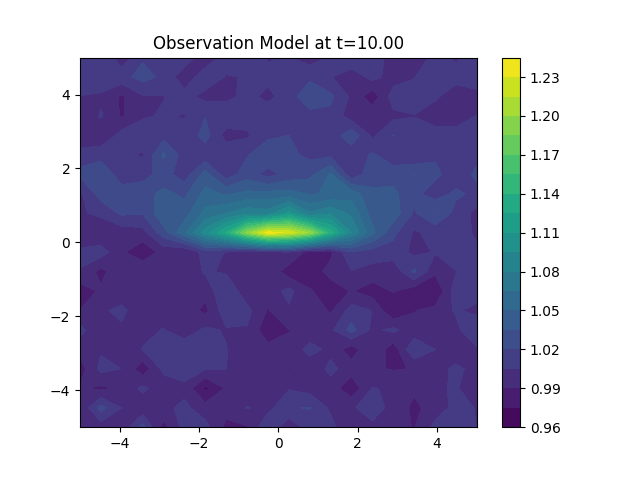
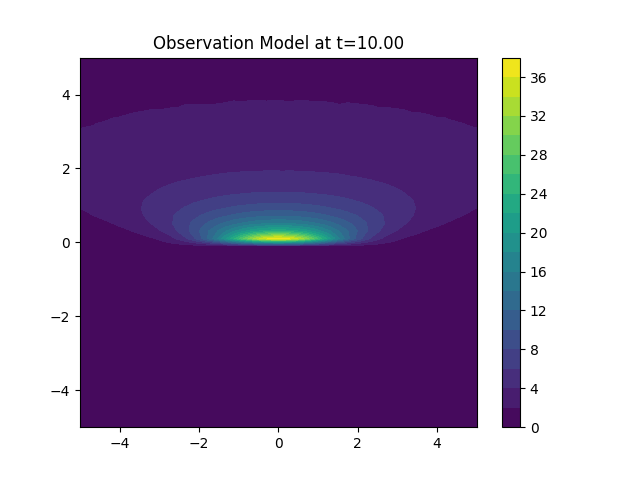
Checked it works for different params

diff --git a/Code/plumes/varying_source.py b/Code/plumes/varying_source.py
@@ -27,7 +27,7 @@ plt.savefig('source_function_plot.png')
 plt.close()
 T=10
 Nt=10
-Nx=20
+Nx=50
 Lx=5
 # Constants
 physical_constants = {
@@ -108,7 +108,7 @@ plt.close()
 #%%
 # Generate data  on grid
 # Generate data  on grid
-data = model.gen_data(10,Nt,20,5,ak,bk,a0)
+data = model.gen_data(10,Nt,Nx,5,ak,bk,a0)
 #Test log_prior
 coefficients = [a0,ak,bk]
 print(log_prior_coefficients(coefficients))
@@ -116,13 +116,13 @@ print(log_prior_coefficients(coefficients))
 # %%
 
 # Test log_likelihood_y
-ll = model.log_likelihood_y(coefficients,T,Nt,20,data)
+ll = model.log_likelihood_y(coefficients,T,Nt,Nx,data)
 print(f"Log likelihood: {ll}")
 
 
 
 def log_posterior(coeff):
-    return log_prior_coefficients(coeff) + model.log_likelihood_y(coeff,T,Nt,20,data)
+    return log_prior_coefficients(coeff) + model.log_likelihood_y(coeff,T,Nt,Nx,data)
     
 #Run rwmh
 initial_point = [0,0,0]

diff --git a/Code/source_varying_functions.py b/Code/source_varying_functions.py
@@ -103,7 +103,7 @@ def A_matrix(x_sensor, y_sensor, constants):
         sigma_V = a_V * (dist_R_valid * np.tan(gamma_V))**b_V + h
         
         rho_ch4 = constants['RHO_CH4']
-        pre_factor = (10 / rho_ch4) / (2 * np.pi * U_speed * sigma_H * sigma_V)
+        pre_factor = (100 / rho_ch4) / (2 * np.pi * U_speed * sigma_H * sigma_V)
         
         term_horizontal = np.exp(-(dist_H_valid**2) / (2 * sigma_H**2))
         term_vertical_base = np.exp(-(dist_V**2) / (2 * sigma_V**2)) 
